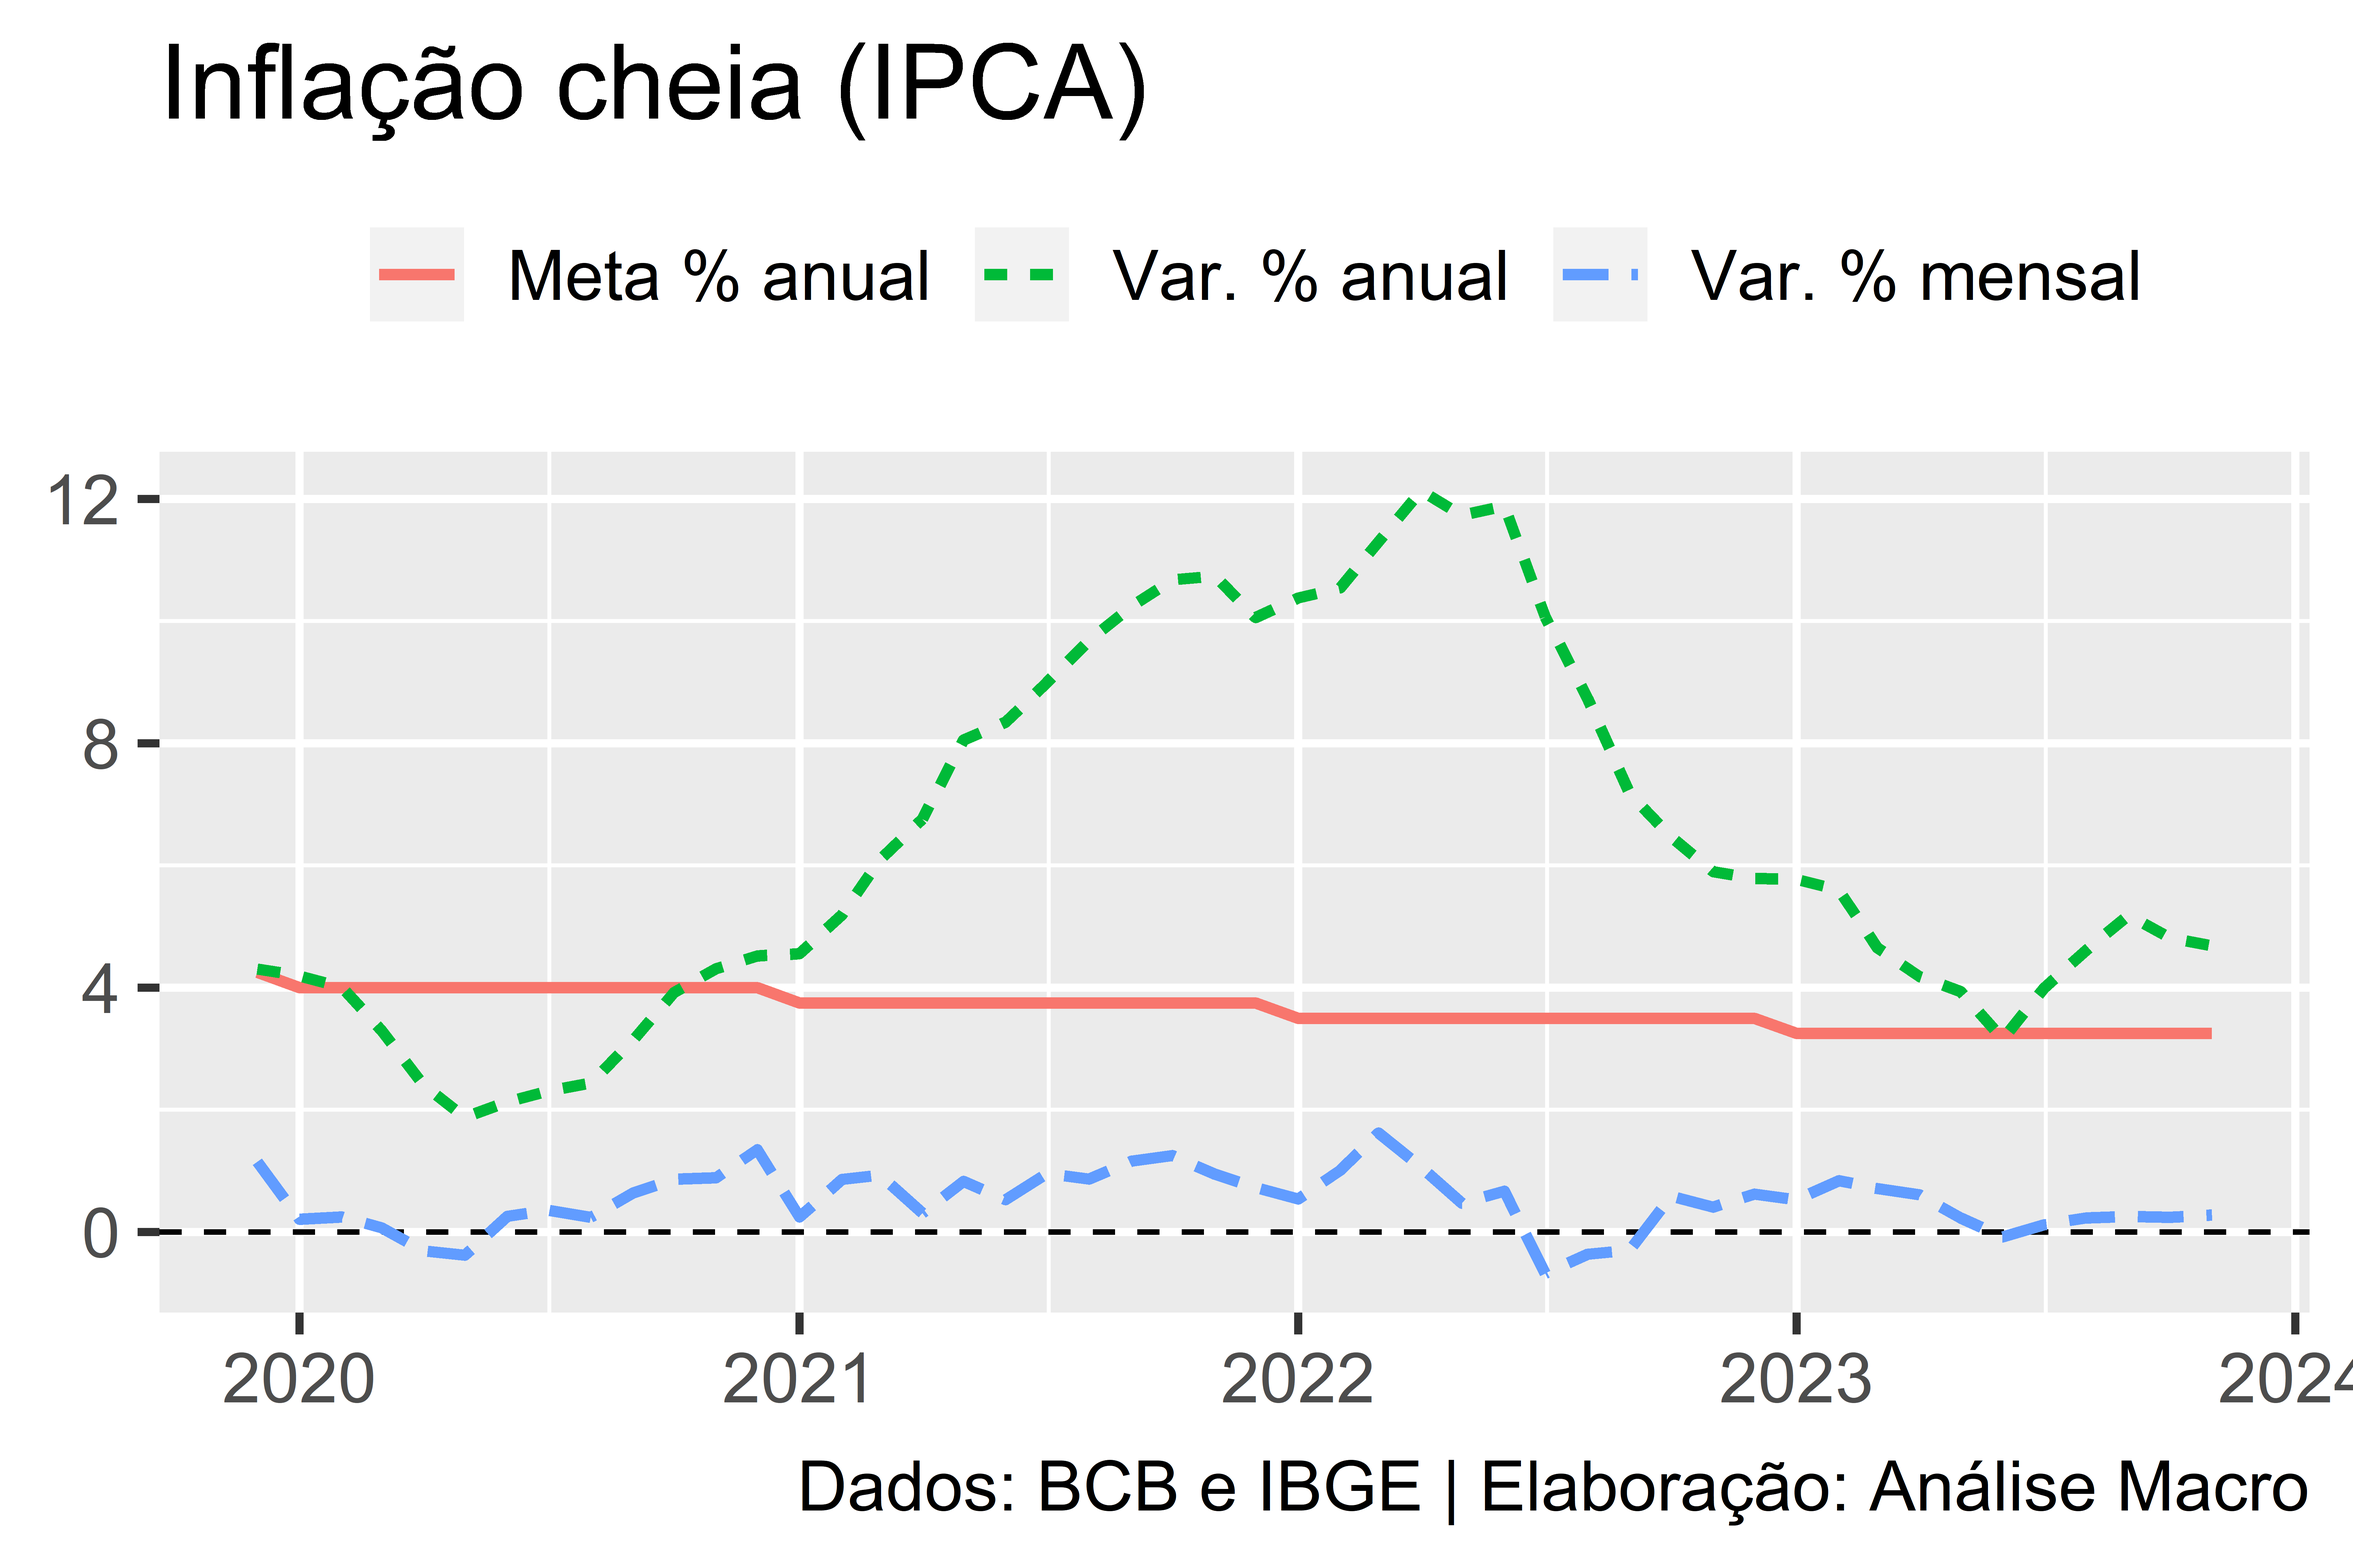
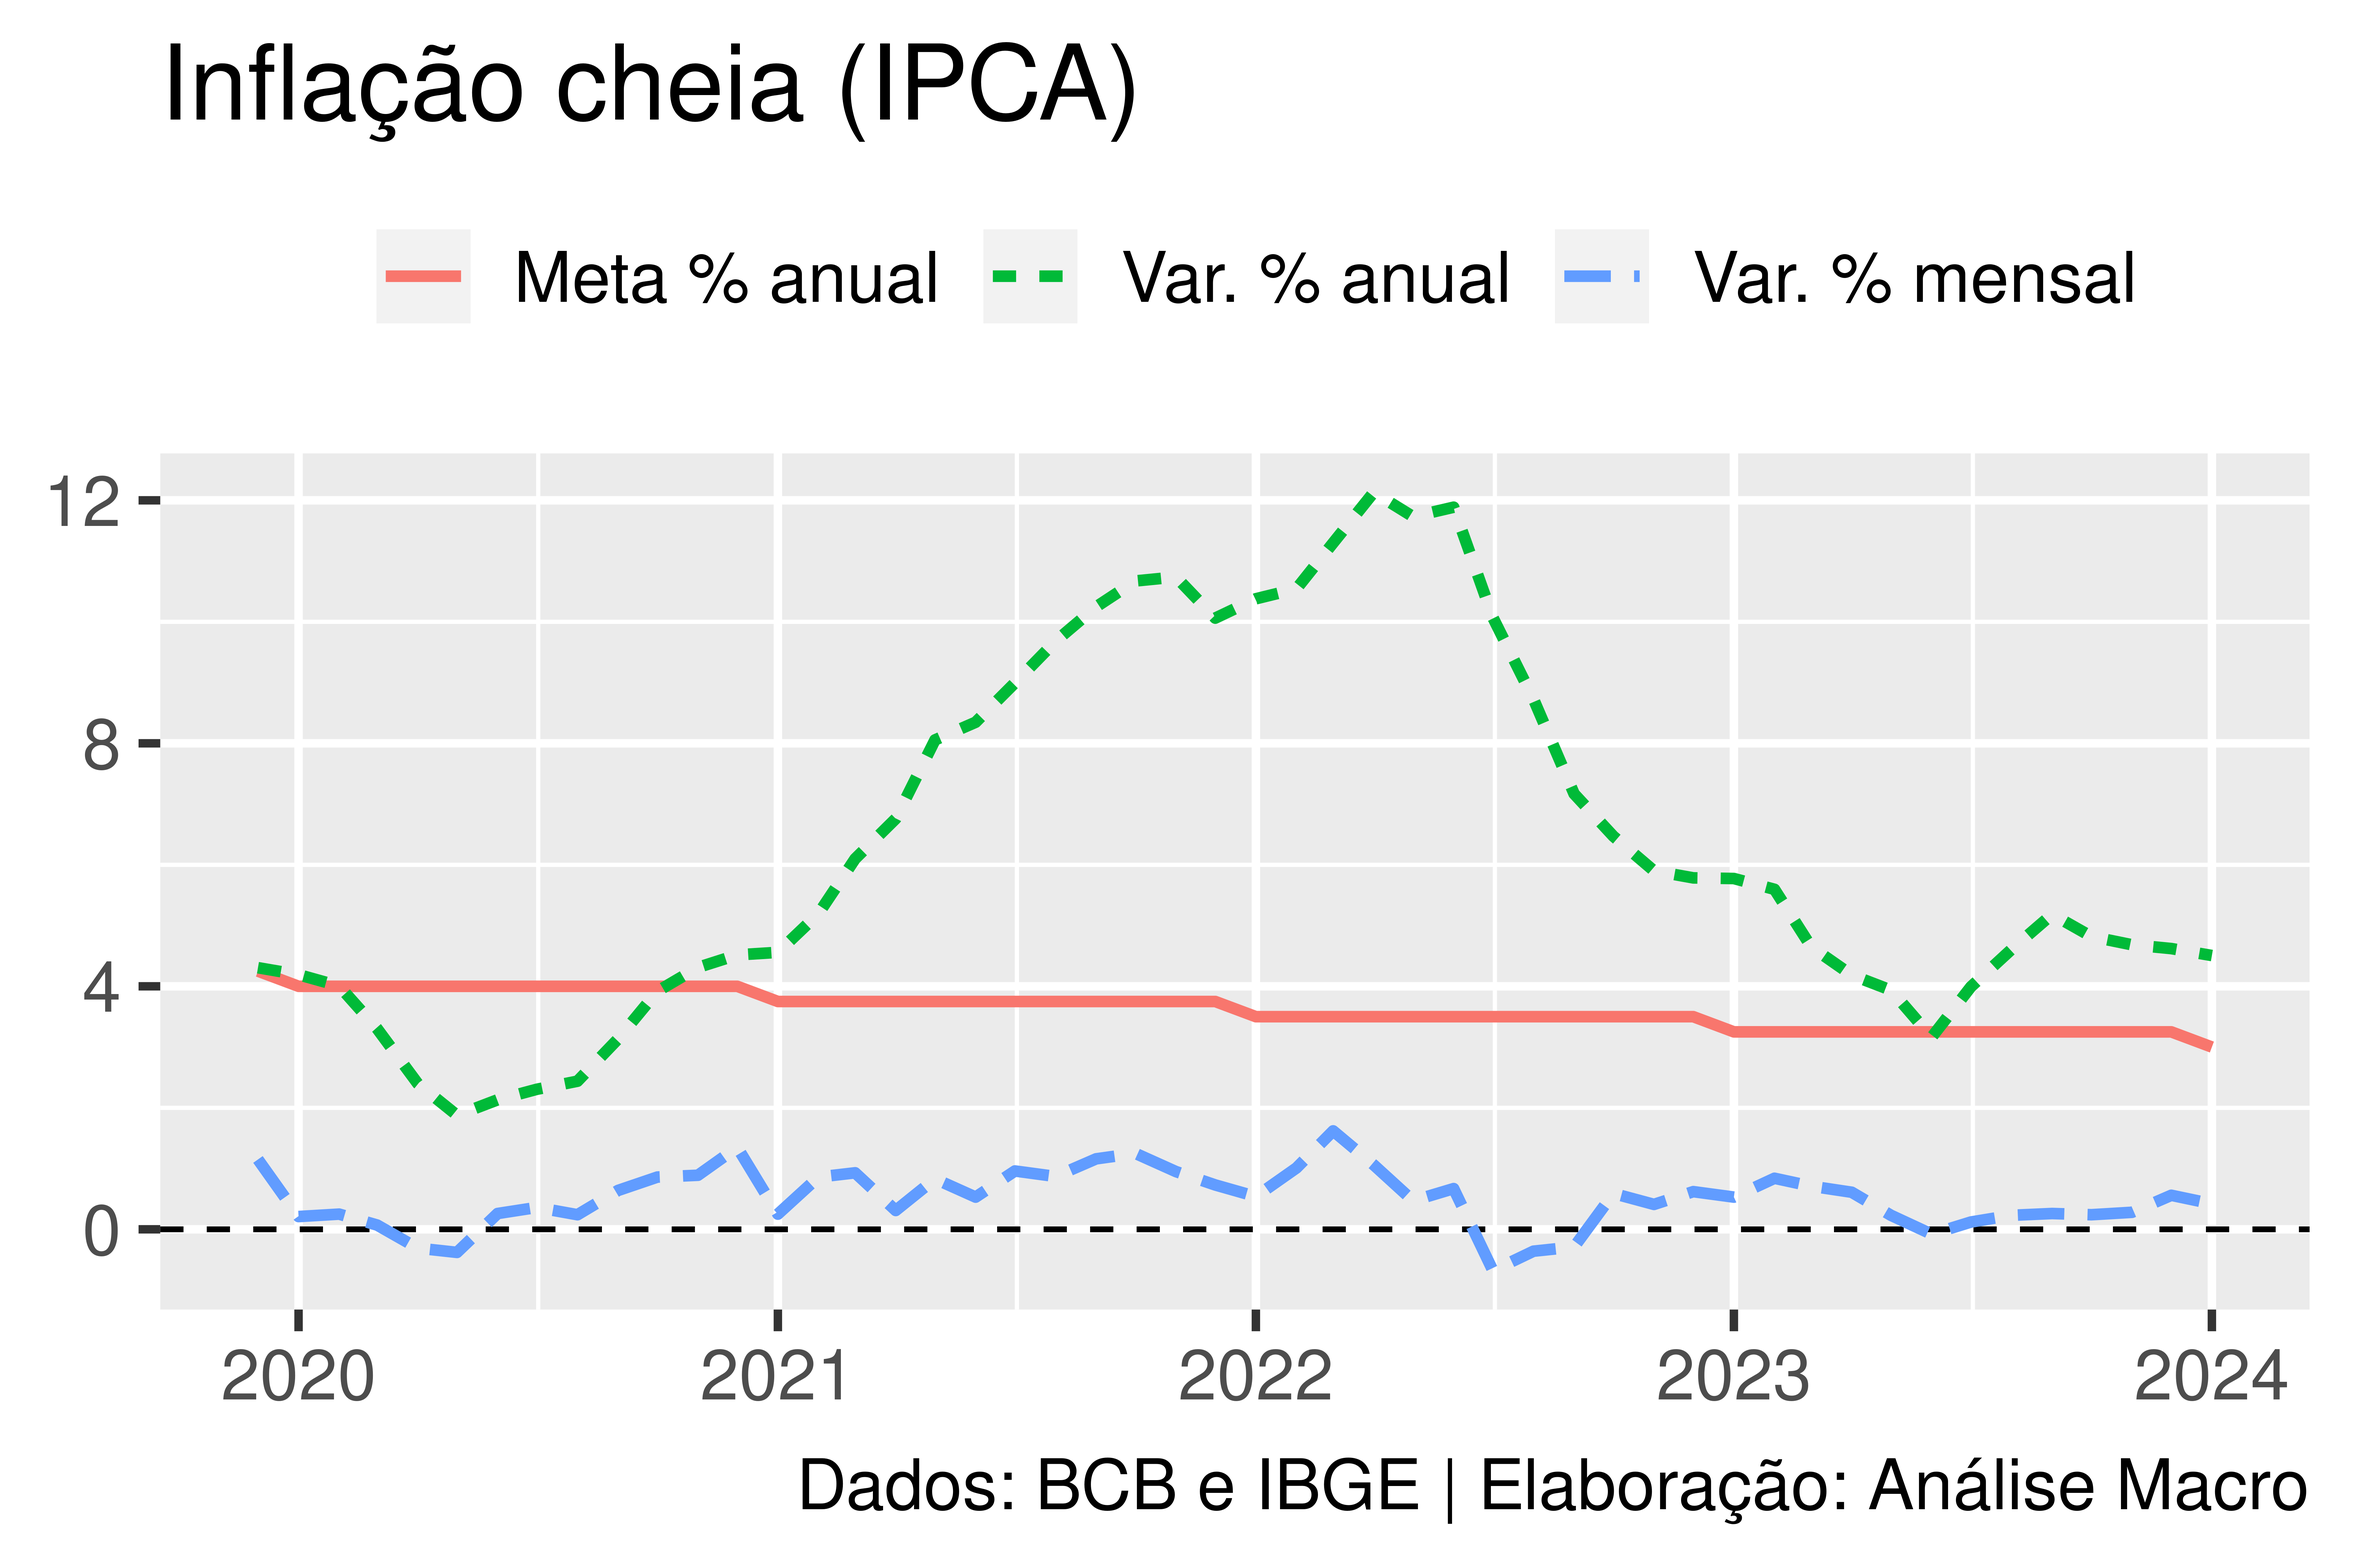
Atualização de relatório automatizada

diff --git a/relatório_ipca/ipca.html b/relatório_ipca/ipca.html
@@ -79,9 +79,9 @@ ul.task-list li input[type="checkbox"] {
 <h2 class="anchored" data-anchor-id="inflação-cheia">Inflação cheia</h2>
 <p>Principais destaques para o Índice nacional de preços ao consumidor-amplo (IPCA):</p>
 <ul>
-<li>O IPCA variou 0,28% no mês de 11/2023 em relação ao mês anterior.</li>
-<li>Em termos anuais, o IPCA acumula 4,68% nos últimos 12 meses.</li>
-<li>Para o ano de 2023 a meta de inflação é de 3,25%. As informações são, quando não explicitamente referenciadas, do IBGE.</li>
+<li>O IPCA variou 0,42% no mês de 01/2024 em relação ao mês anterior.</li>
+<li>Em termos anuais, o IPCA acumula 4,51% nos últimos 12 meses.</li>
+<li>Para o ano de 2024 a meta de inflação é de 3,00%. As informações são, quando não explicitamente referenciadas, do IBGE.</li>
 </ul>
 <div class="callout callout-style-default callout-note callout-titled">
 <div class="callout-header d-flex align-content-center">
